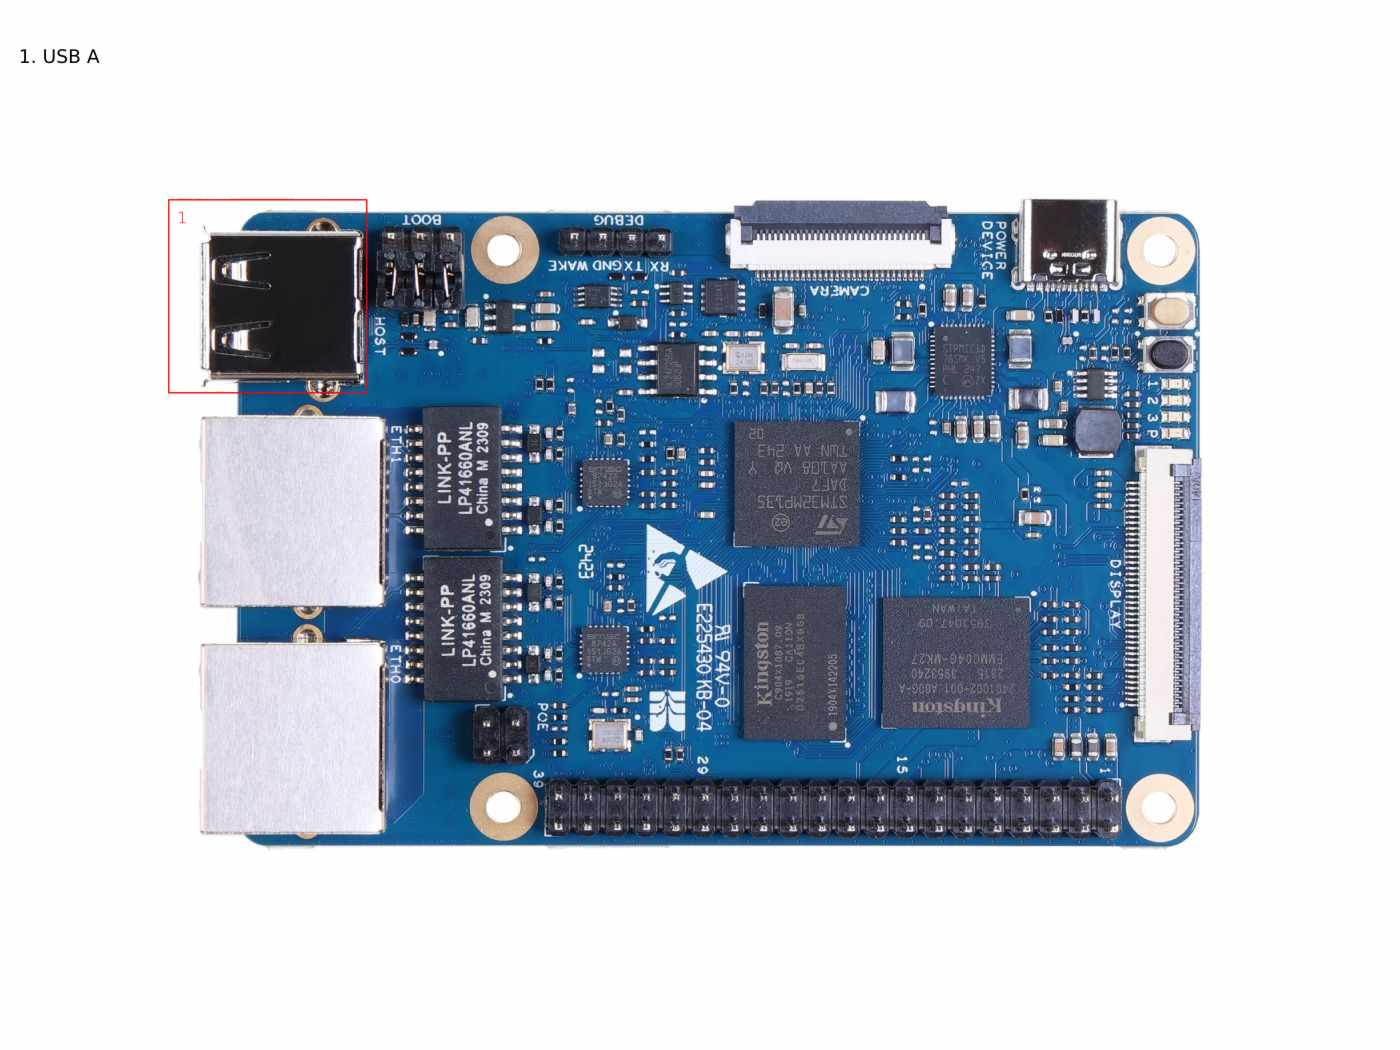
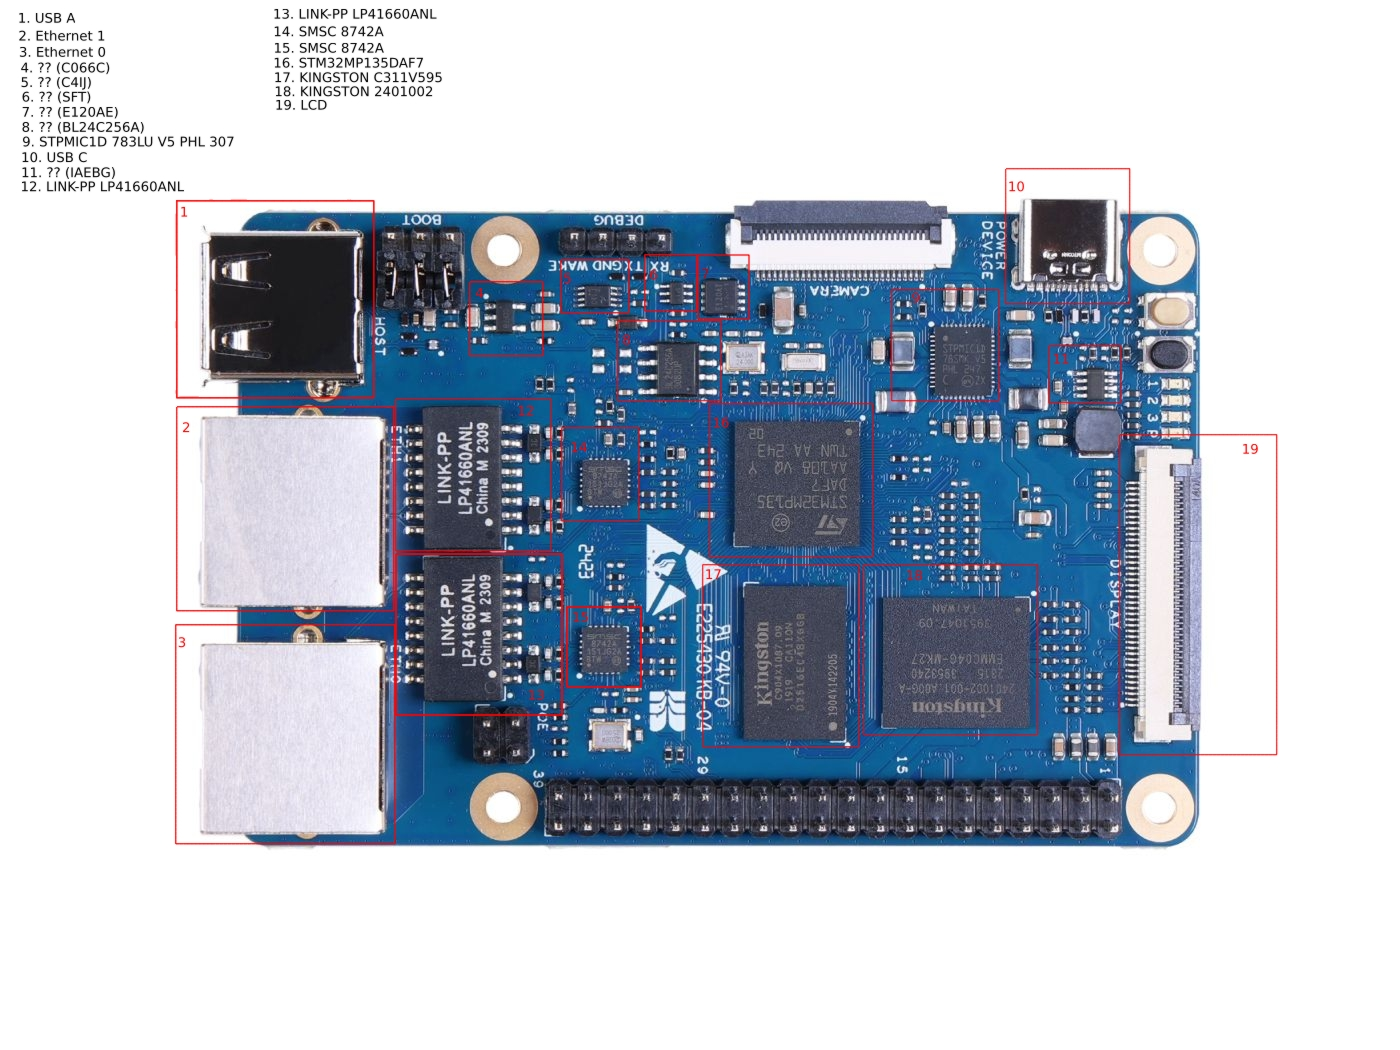
WIP

diff --git a/docs/hardware.md b/docs/hardware.md
@@ -1,2 +1,9 @@
 Hardware
 ===========
+
+![Board with marked components](assets/odyssey-mp135d-emmc-version-front-components.jpg)
+
+
+USB A
+------
+
